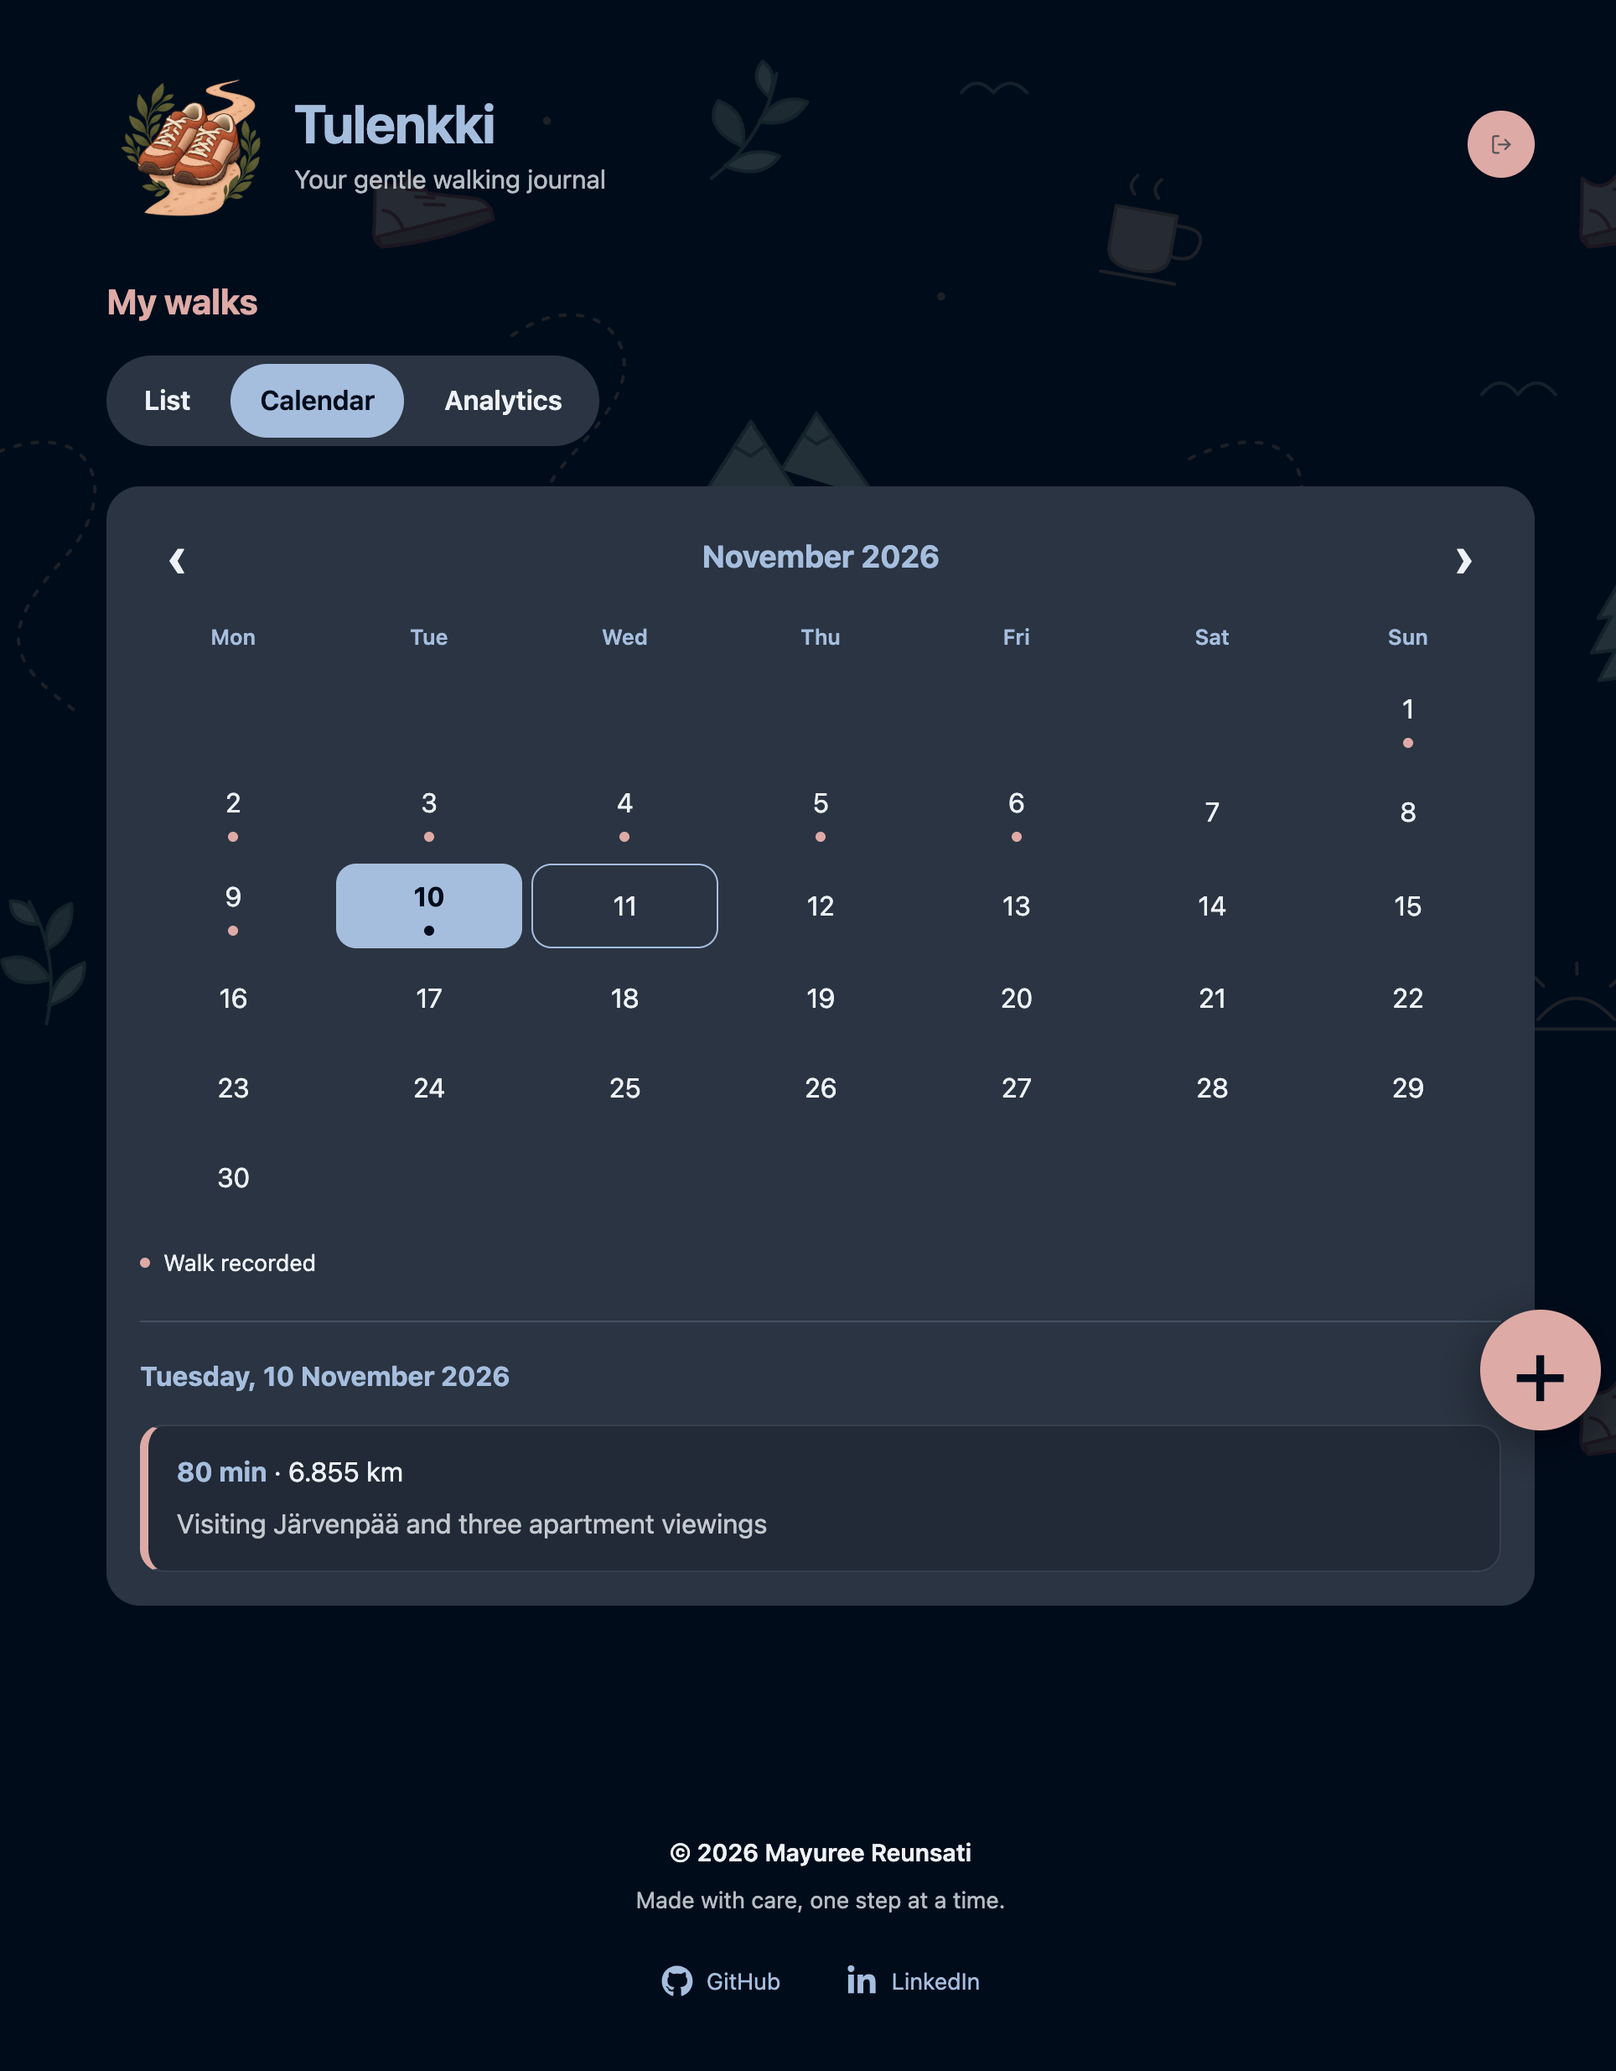
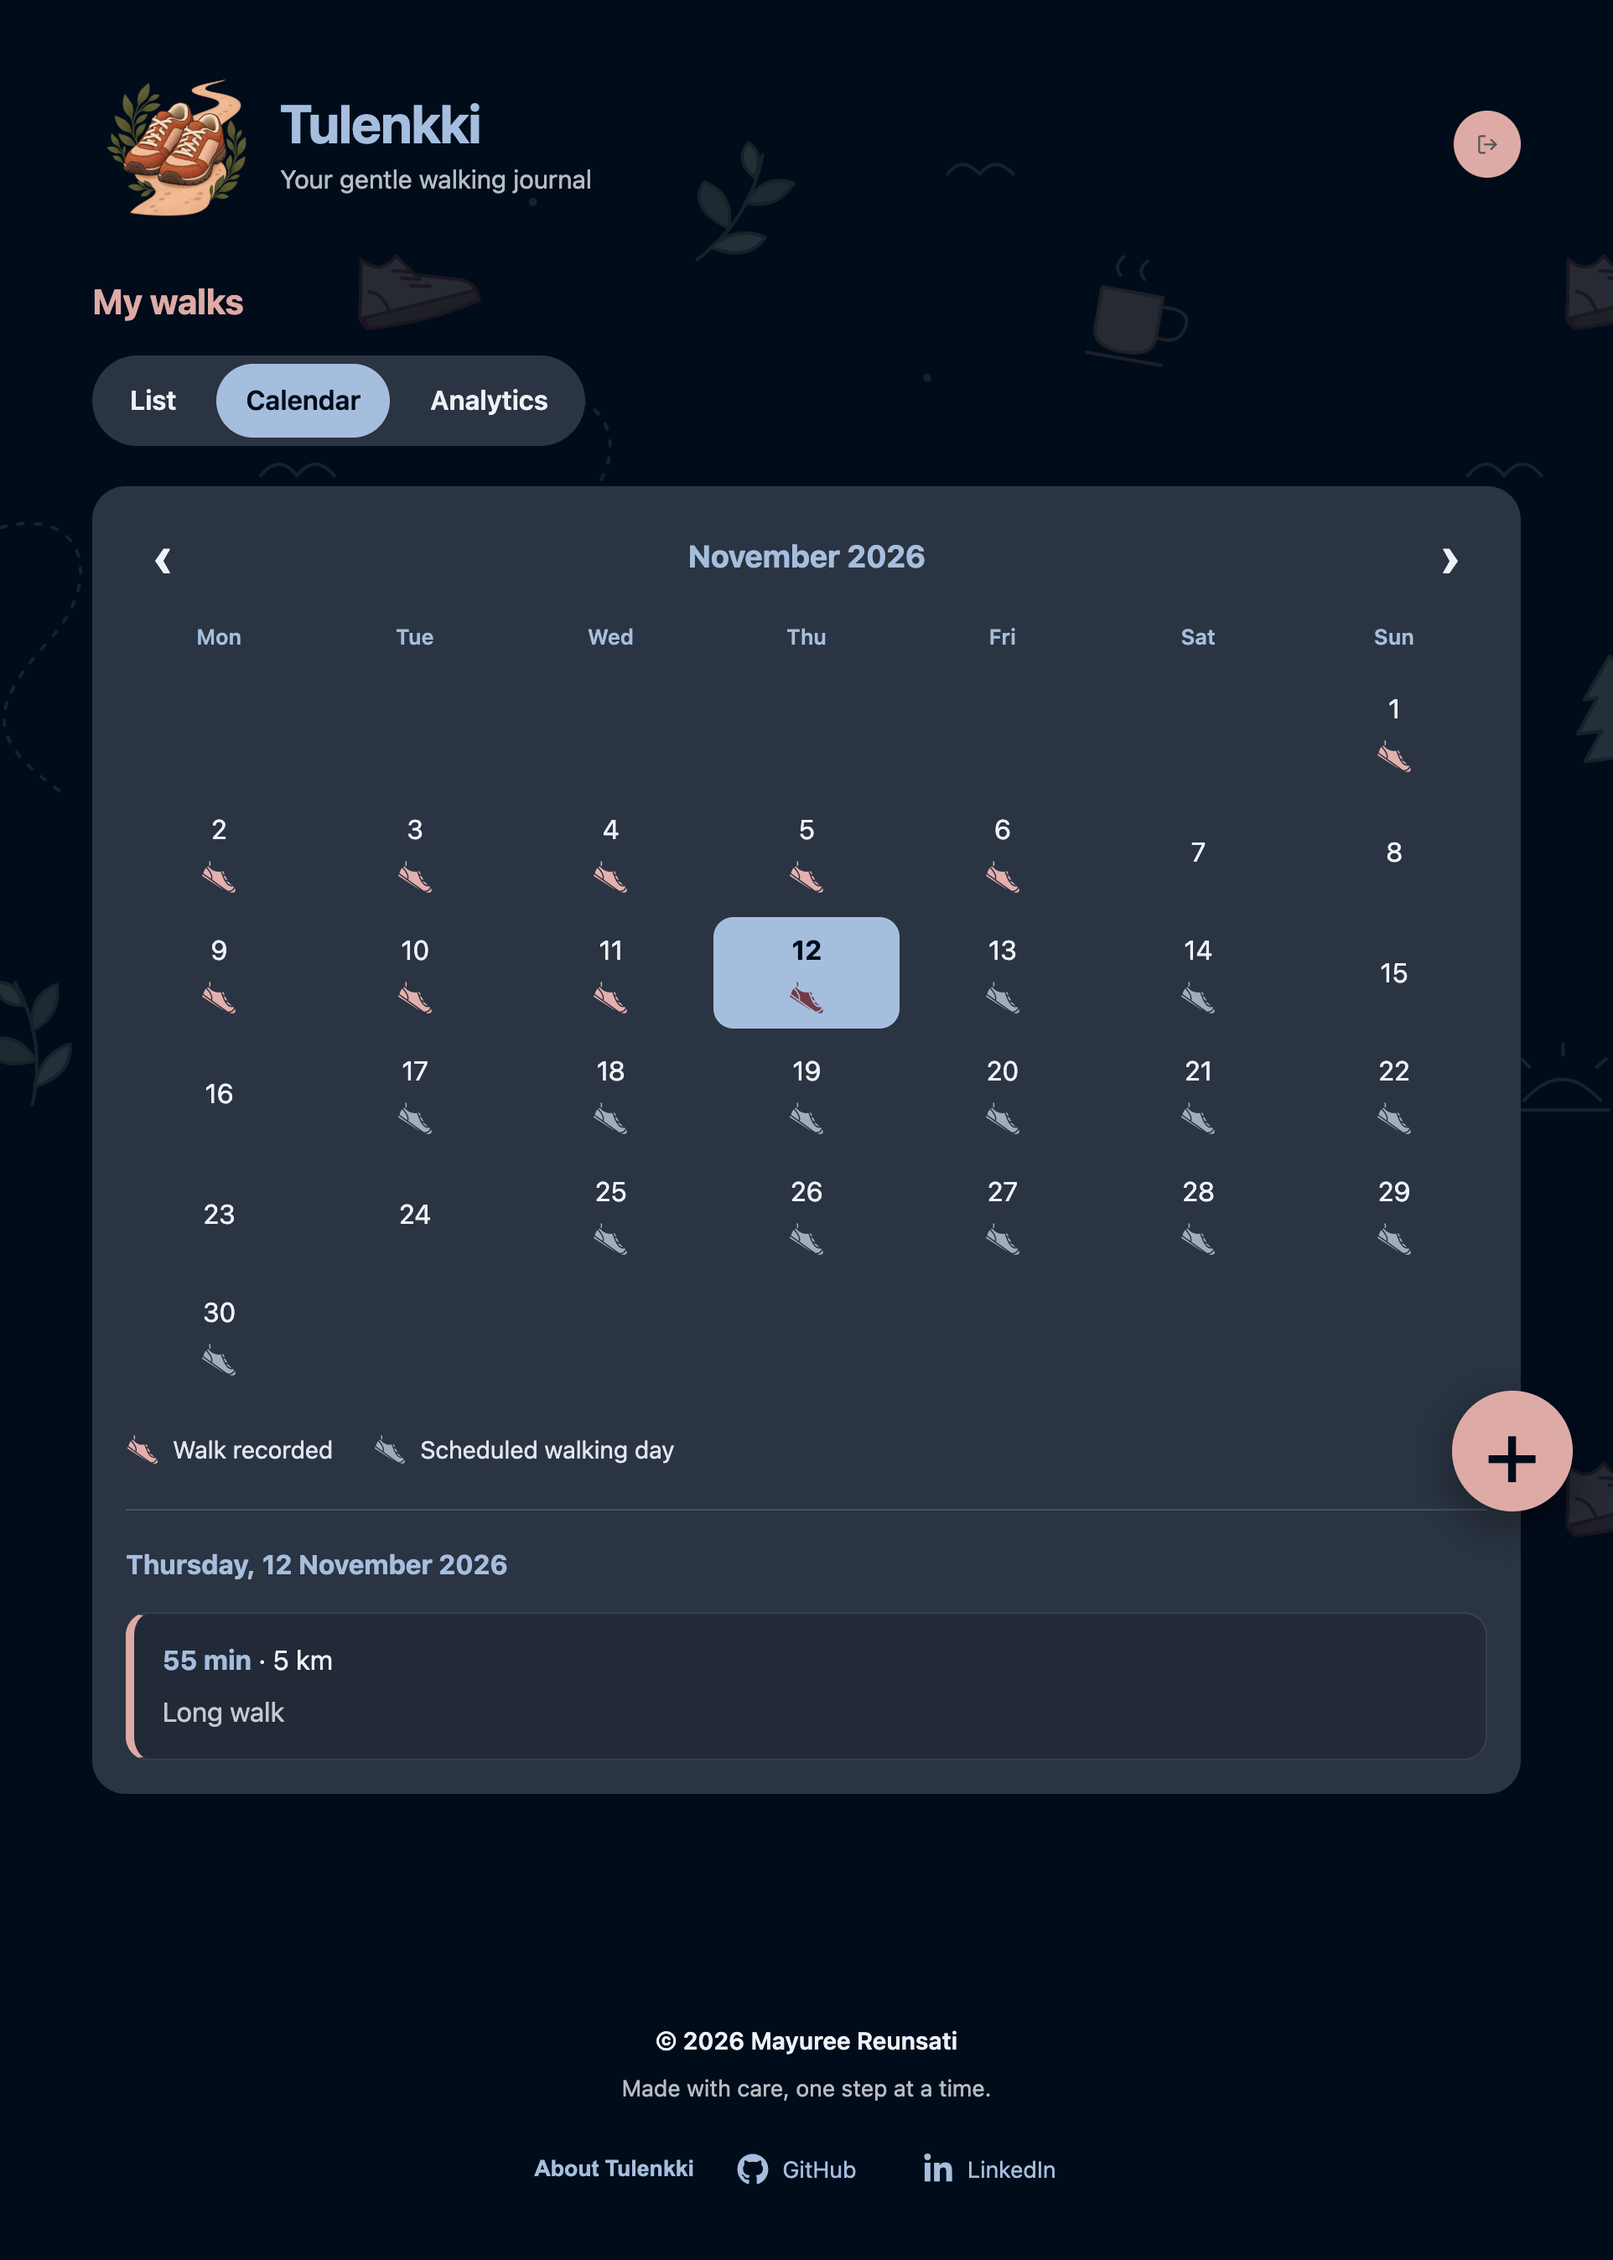
Update README with new welcome screenshot and rearrange screenshot layout

diff --git a/README.md b/README.md
@@ -400,14 +400,14 @@ This project has helped me practise:
 
 ## Screenshots
 
-| Sign in | Calendar |
+| Sign in | Welcome |
 |---------|------------|
-| <img src="./docs/screenshots/tulenkki.vercel.app_signin.png" alt="Tulenkki sign-in page" width="400"/> | <img src="./docs/screenshots/tulenkki.vercel.app_calendar.png" alt="Calendar view of walks" width="400" /> |
+| <img src="./docs/screenshots/tulenkki.vercel.app_signin.png" alt="Tulenkki sign-in page" width="400"/> | <img src="./docs/screenshots/tulenkki.vercel.app_welcome.png" alt="Calendar view of walks" width="400" /> |
 
 | Add walk | Walks list |
 |----------|----------|
 | <img src="./docs/screenshots/tulenkki.vercel.app_addwalk.png" alt="Form for adding a walk" width="400" /> | <img src="./docs/screenshots/tulenkki.vercel.app_list.png" alt="List of recorded walks" width="400"/> |
 
-| Analytics |
-|-----------|
-| <img src="./docs/screenshots/tulenkki.vercel.app_analytics.png" alt="Walking progress analytics" width="400" /> |
+| Calendar | Analytics |
+|-----------|----------|
+| <img src="./docs/screenshots/tulenkki.vercel.app_calendar.png" alt="Form for adding a walk" width="400" /> | <img src="./docs/screenshots/tulenkki.vercel.app_analytics.png" alt="Walking progress analytics" width="400" /> |
